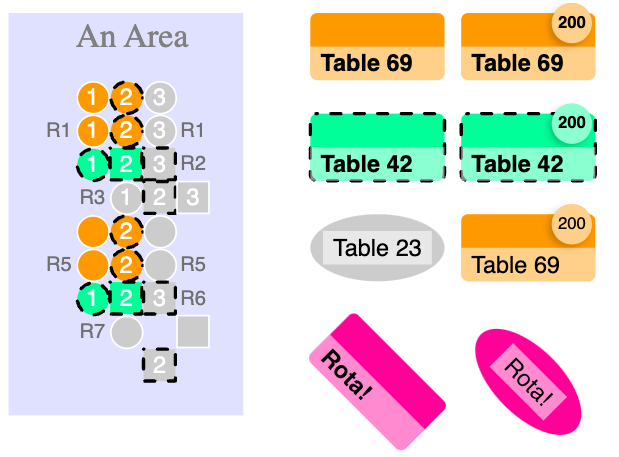
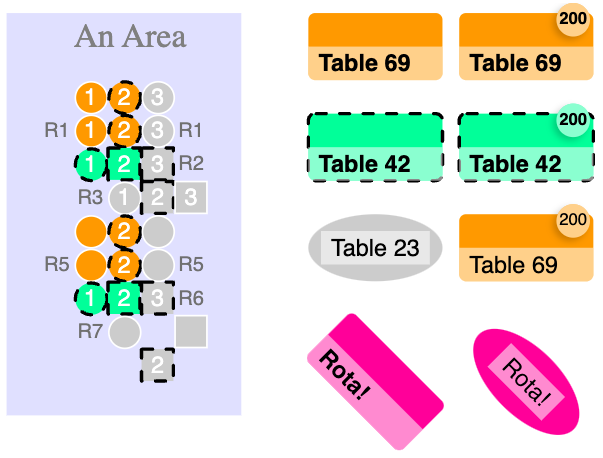
adjust badge params (#16)
* adjust badgeCount params
* update example pic

diff --git a/packages/seatmaps/src/SeatCountBadge.tsx b/packages/seatmaps/src/SeatCountBadge.tsx
@@ -8,8 +8,8 @@ export interface SeatCountBadgeProps {
 }
 
 // to place the badge nicely on the inner right side of the volume
-const HORIZONTAL_BADGE_PADDING = 7;
-const VERTICAL_BADGE_PADDING = 3;
+const HORIZONTAL_BADGE_PADDING = 6;
+const VERTICAL_BADGE_PADDING = 2;
 
 export const SeatCountBadge = ({ containerWidth, count = 0, color = 'inherit' }: SeatCountBadgeProps) => {
     const x = l(containerWidth) - HORIZONTAL_BADGE_PADDING;

diff --git a/packages/seatmaps/src/Badge.tsx b/packages/seatmaps/src/Badge.tsx
@@ -9,7 +9,7 @@ export interface BadgeProps {
 }
 
 // radius currently fixed, as the font size would also have to be adjusted when changing the radius
-const CIRCLE_RADIUS = 6;
+const CIRCLE_RADIUS = 5;
 
 const Name = styled('text')`
     ${textCss}
